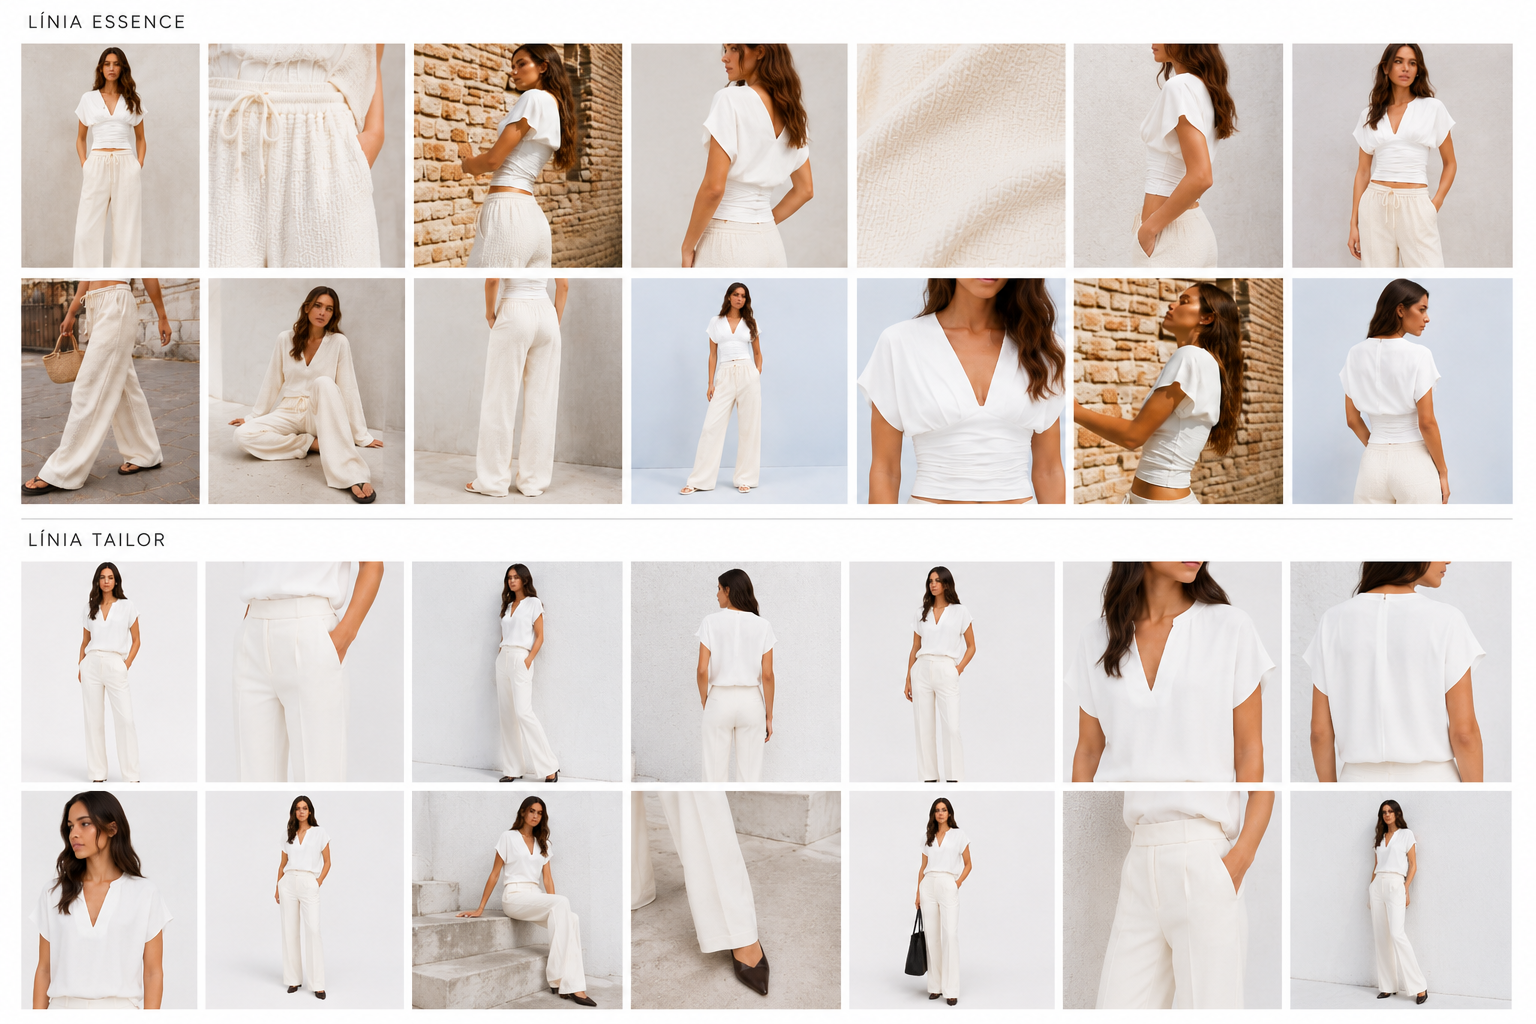
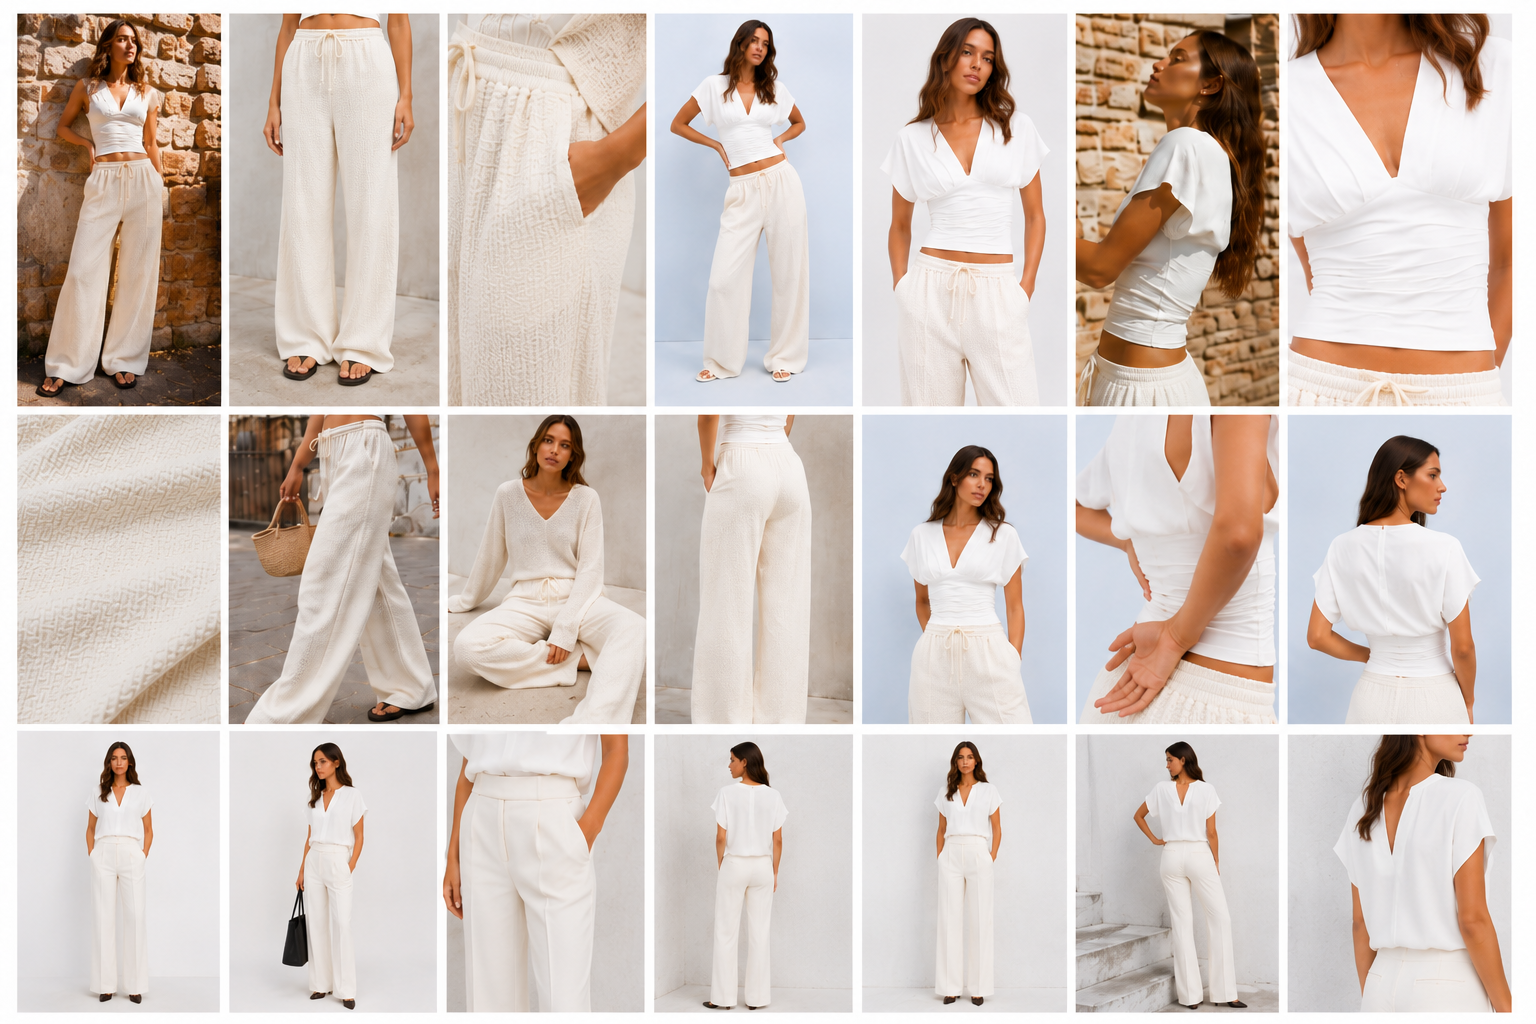
nova foto

diff --git a/src/App.tsx b/src/App.tsx
@@ -862,7 +862,7 @@ export default function App() {
           </div>
 
           <div style={{ width: '100%', marginBottom: '0' }}>
-            <img src="/assets/tailor_essence.png" alt="Models MiRA" style={{ width: '100%', height: isMobile ? '320px' : '520px', objectFit: 'cover', display: 'block' }}
+            <img src="/assets/esencia.png" alt="Models MiRA" style={{ width: '100%', height: isMobile ? '320px' : '520px', objectFit: 'cover', display: 'block' }}
               onError={(e) => { (e.target as HTMLImageElement).style.display = 'none'; }} />
           </div>
           <div style={{ backgroundColor: '#ffffff', border: '1px solid #eae8e1', borderTop: 'none', padding: isMobile ? '28px 24px' : '40px 48px', marginBottom: '60px' }}>